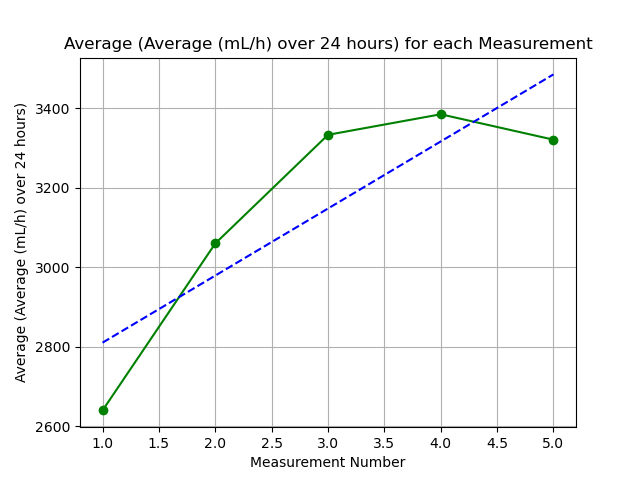
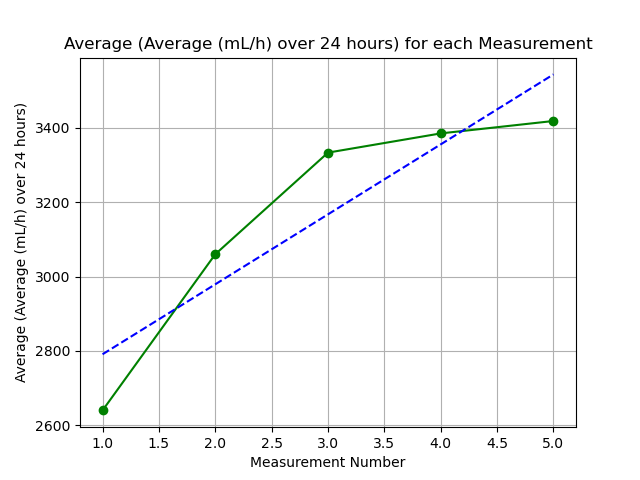
Changes to be committed: 	modified:   README.md 	modified:   data.csv 	modified:   plot.py 	modified:   plots/average_average_mL_h_over_24_hours_plot.png 	modified:   plots/average_mL_day_plot.png 	modified:   results.csv 	modified:   results.md

diff --git a/plot.py b/plot.py
@@ -5,7 +5,7 @@ from datetime import datetime
 
 data = pd.read_csv("data.csv")
 
-data["Time (diff)"] = (pd.to_datetime(data["Time (t_final)"], format="%H%M") - pd.to_datetime(data["Time (t_0)"], format="%H%M")).dt.seconds / 3600
+data["Time (diff)"] = (pd.to_datetime(data["Time (t_final)"], format="%H:%M") - pd.to_datetime(data["Time (t_0)"], format="%H:%M")).dt.seconds / 3600
 data["mL/h"] = data["Measurement (mL)"] / data["Time (diff)"]
 
 data["Average (mL/h)"] = data["mL/h"].expanding().mean()

diff --git a/README.md b/README.md
@@ -21,11 +21,11 @@ My water heater is leaking, so I made this because I'm lazy.
 
 | Number | Date | Time (t_0) | Time (t_final) | Time (diff) | Measurement (mL) | mL/h | Average (mL/h) | mL/day | Average (mL/day) | Average (Average (mL/h) over 24 hours) |
 | --- | --- | --- | --- | --- | --- | --- | --- | --- | --- | --- |
-| 1 | 2023-04-24 | 1439 | 1639 | 2.0 | 220 | 110.0 | 110.0 | 2640.0 | 2640.0 | 2640.0 |
-| 2 | 2023-04-24 | 1645 | 1845 | 2.0 | 360 | 180.0 | 145.0 | 4320.0 | 3480.0 | 3060.0 |
-| 3 | 2023-04-24 | 1851 | 2051 | 2.0 | 390 | 195.0 | 161.66666666666666 | 4680.0 | 3880.0 | 3333.333333333333 |
-| 4 | 2023-04-24 | 2052 | 2252 | 2.0 | 210 | 105.0 | 147.5 | 2520.0 | 3540.0 | 3385.0 |
-| 5 | 2023-04-24 | 2255 | 55 | 6.166666666666667 | 300 | 48.648648648648646 | 127.72972972972973 | 1167.5675675675675 | 3065.5135135135133 | 3321.1027027027026 |
+| 1 | 2023-04-24 | 14:39 | 16:39 | 2.0 | 220 | 110.0 | 110.0 | 2640.0 | 2640.0 | 2640.0 |
+| 2 | 2023-04-24 | 16:45 | 18:45 | 2.0 | 360 | 180.0 | 145.0 | 4320.0 | 3480.0 | 3060.0 |
+| 3 | 2023-04-24 | 18:51 | 20:51 | 2.0 | 390 | 195.0 | 161.66666666666666 | 4680.0 | 3880.0 | 3333.333333333333 |
+| 4 | 2023-04-24 | 20:52 | 22:52 | 2.0 | 210 | 105.0 | 147.5 | 2520.0 | 3540.0 | 3385.0 |
+| 5 | 2023-04-24 | 23:00 | 01:00 | 2.0 | 300 | 150.0 | 148.0 | 3600.0 | 3552.0 | 3418.4 |
 
 
 ---

diff --git a/results.md b/results.md
@@ -1,7 +1,7 @@
 | Number | Date | Time (t_0) | Time (t_final) | Time (diff) | Measurement (mL) | mL/h | Average (mL/h) | mL/day | Average (mL/day) | Average (Average (mL/h) over 24 hours) |
 | --- | --- | --- | --- | --- | --- | --- | --- | --- | --- | --- |
-| 1 | 2023-04-24 | 1439 | 1639 | 2.0 | 220 | 110.0 | 110.0 | 2640.0 | 2640.0 | 2640.0 |
-| 2 | 2023-04-24 | 1645 | 1845 | 2.0 | 360 | 180.0 | 145.0 | 4320.0 | 3480.0 | 3060.0 |
-| 3 | 2023-04-24 | 1851 | 2051 | 2.0 | 390 | 195.0 | 161.66666666666666 | 4680.0 | 3880.0 | 3333.333333333333 |
-| 4 | 2023-04-24 | 2052 | 2252 | 2.0 | 210 | 105.0 | 147.5 | 2520.0 | 3540.0 | 3385.0 |
-| 5 | 2023-04-24 | 2255 | 55 | 6.166666666666667 | 300 | 48.648648648648646 | 127.72972972972973 | 1167.5675675675675 | 3065.5135135135133 | 3321.1027027027026 |
+| 1 | 2023-04-24 | 14:39 | 16:39 | 2.0 | 220 | 110.0 | 110.0 | 2640.0 | 2640.0 | 2640.0 |
+| 2 | 2023-04-24 | 16:45 | 18:45 | 2.0 | 360 | 180.0 | 145.0 | 4320.0 | 3480.0 | 3060.0 |
+| 3 | 2023-04-24 | 18:51 | 20:51 | 2.0 | 390 | 195.0 | 161.66666666666666 | 4680.0 | 3880.0 | 3333.333333333333 |
+| 4 | 2023-04-24 | 20:52 | 22:52 | 2.0 | 210 | 105.0 | 147.5 | 2520.0 | 3540.0 | 3385.0 |
+| 5 | 2023-04-24 | 23:00 | 01:00 | 2.0 | 300 | 150.0 | 148.0 | 3600.0 | 3552.0 | 3418.4 |
